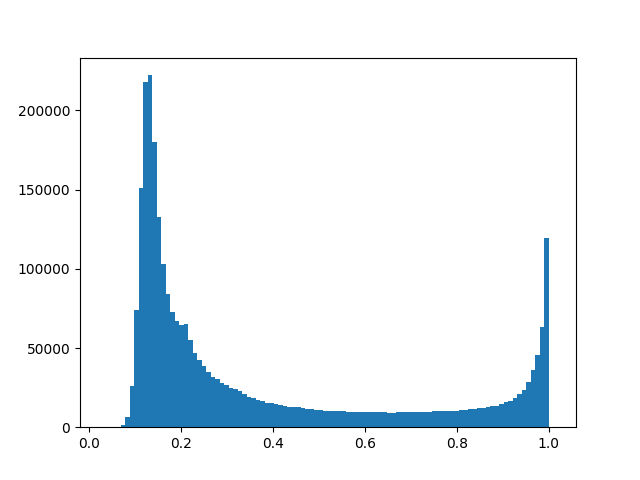
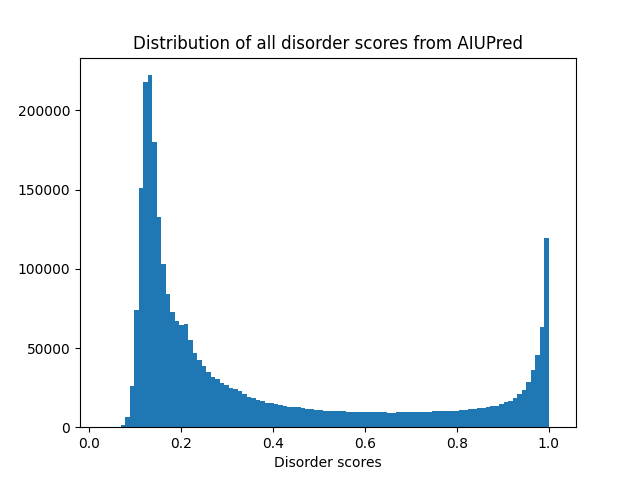
added axis labels and title to graphs

Changed region(s): [[0.1875, 0.0625, 0.8125, 0.125], [0.4375, 0.9375, 0.5938, 0.9688]]

diff --git a/aiupred/percentage distribution.py b/aiupred/percentage distribution.py
@@ -6,9 +6,9 @@ with open('aiupred_scores.p', 'rb') as fp:
     proteins = pickle.load(fp)
 
 percentages = dict()
-
+alpha = 0.5
 for name, disorder_array in proteins.items():
-    percentages[name] = (disorder_array > 0.5).sum() / len(disorder_array)
+    percentages[name] = (disorder_array > alpha).sum() / len(disorder_array)
 
 # Logit Transformation
 # arr = [np.atleast_1d(perc) for perc in percentages.values()]
@@ -19,5 +19,7 @@ for name, disorder_array in proteins.items():
 arr = [np.atleast_1d(perc) for perc in percentages.values()]
 arr = np.concatenate(arr)
 plt.hist(arr, bins=50)
+plt.xlabel("Percentage of residues > " + str(alpha))
+plt.title("Distribution of percentages of proteins")
 plt.show()
-plt.savefig("hist (bins_50) of percentage of proteins of residues alpha_0.5.png")
+#plt.savefig("hist (bins_50) of percentage of proteins of residues alpha_0.5.png")

diff --git a/aiupred/score distribution.py b/aiupred/score distribution.py
@@ -30,4 +30,6 @@ with open('aiupred_scores.p', 'rb') as fp:
 
 vals = concatenate(list(proteins.values()))
 plt.hist(vals, bins=100)
+plt.xlabel("Disorder scores")
+plt.title("Distribution of all disorder scores from AIUPred")
 plt.savefig("hist (bins_100) of all disorder scores.png")
